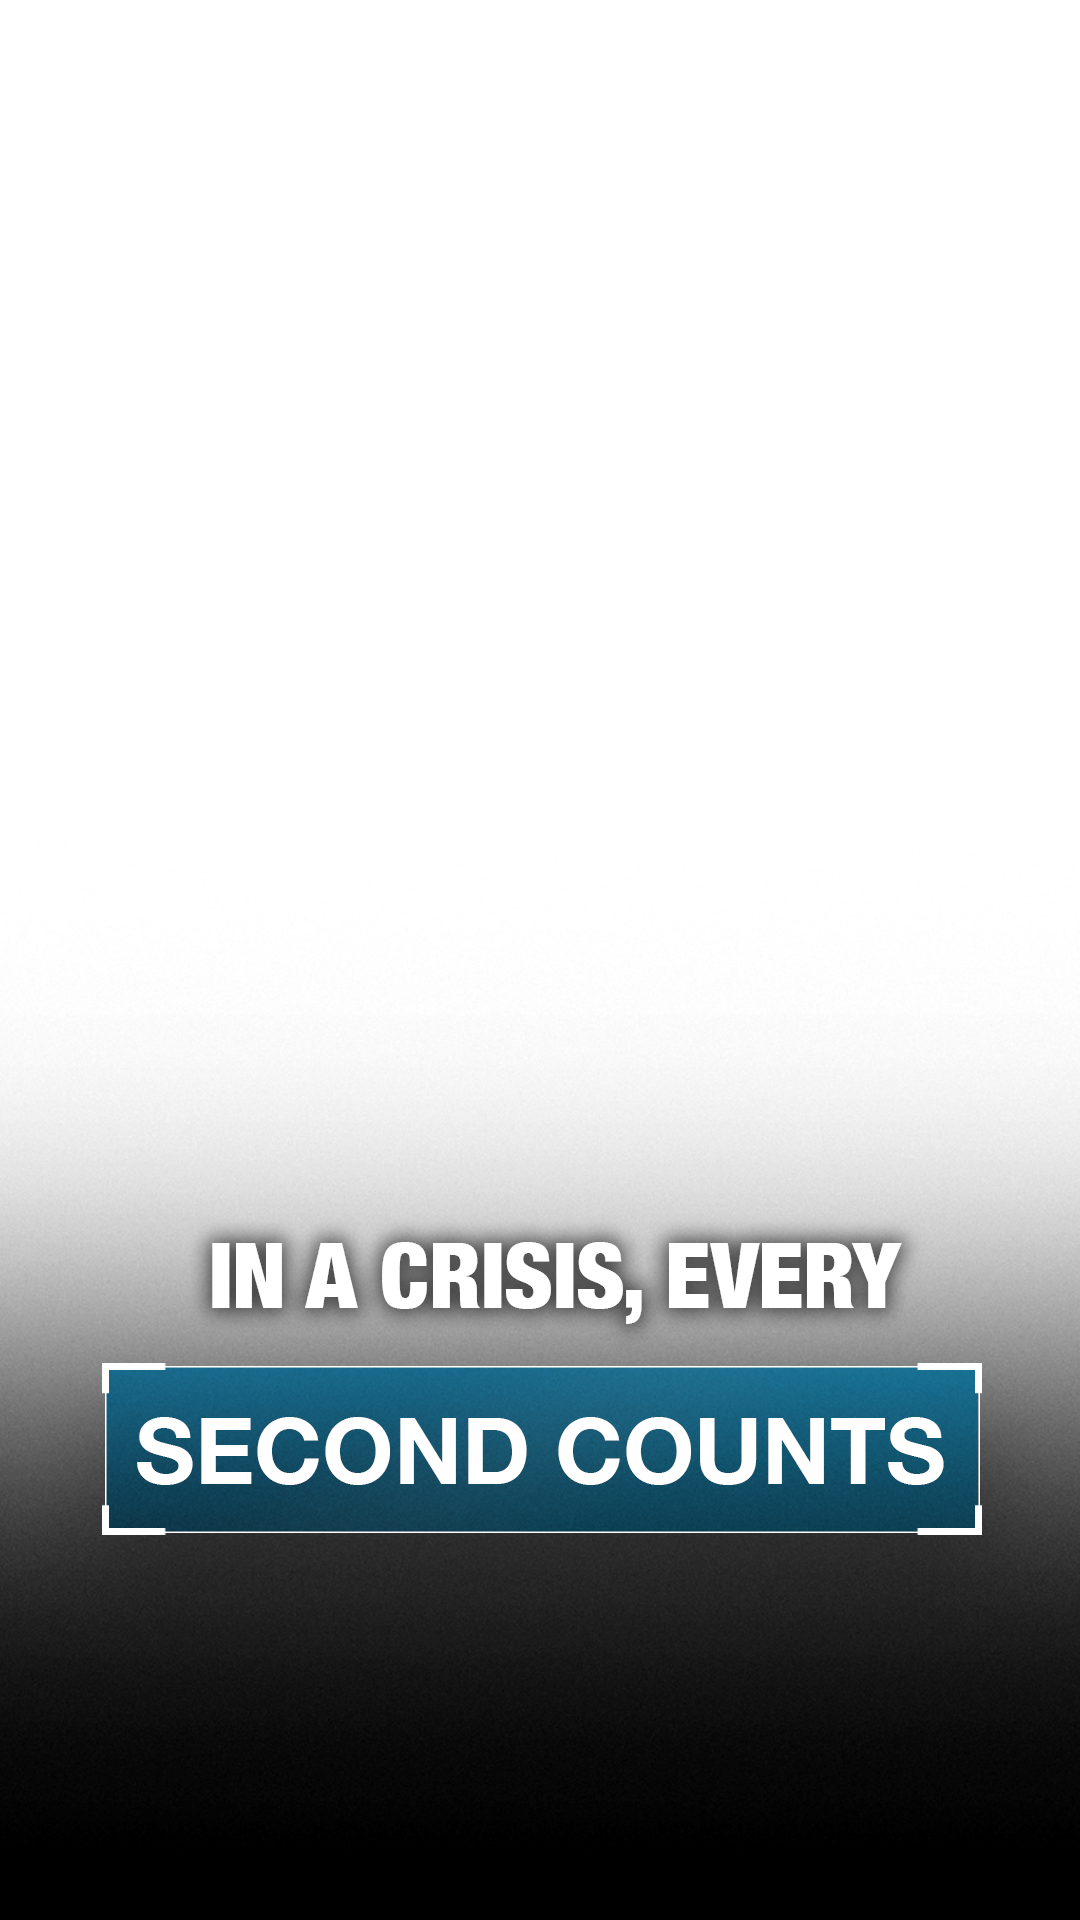
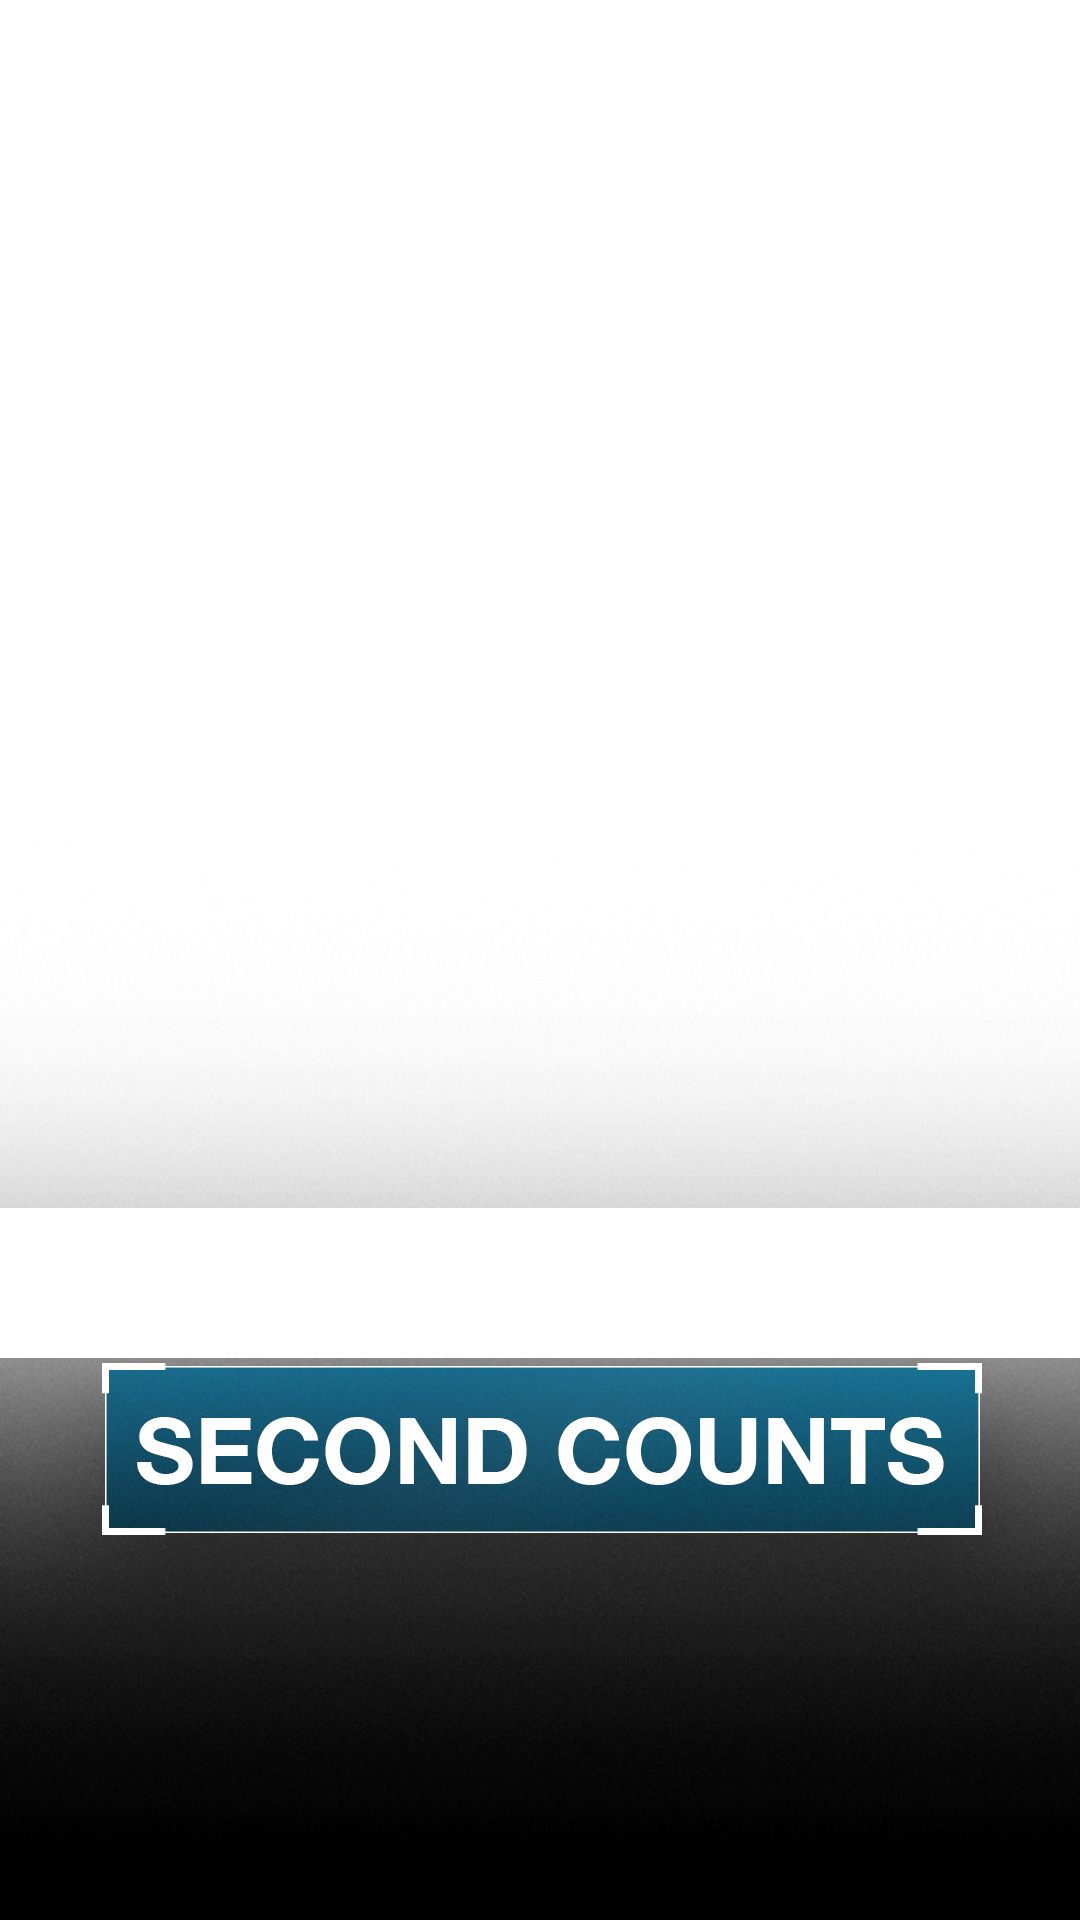
Remove Siyata top title background

Changed region(s): [[0.0, 0.625, 1.0, 0.7188]]

diff --git a/thumbnail_agent.py b/thumbnail_agent.py
@@ -150,7 +150,23 @@ CLIENTS = {
         "logo_area": "upper Siyata design area",
         "template_context": "fixed Siyata design layer with a black lower field and blue title box",
         "title_bands": [
-            {"x": 96, "y": 1215, "w": 888, "h": 142, "radius": 0, "fill": (0, 0, 0, 255), "text_fill": "#ffffff", "font_max": 78, "font_min": 32, "text_center_x": 540, "text_center_y": 1290},
+            {
+                "x": 96,
+                "y": 1215,
+                "w": 888,
+                "h": 142,
+                "radius": 0,
+                "fill": None,
+                "text_fill": "#ffffff",
+                "font_max": 78,
+                "font_min": 32,
+                "text_center_x": 540,
+                "text_center_y": 1290,
+                "stroke_width": 1,
+                "stroke_fill": (0, 0, 0, 210),
+                "shadow_offsets": [(3, 5)],
+                "shadow_fill": (0, 0, 0, 185),
+            },
             {"x": 106, "y": 1374, "w": 868, "h": 152, "radius": 0, "fill": (25, 111, 137, 255), "text_fill": "#ffffff", "font_max": 92, "font_min": 36, "text_center_x": 540, "text_center_y": 1455},
         ],
     },
@@ -528,7 +544,17 @@ def draw_centered_text(draw, box, text, font, fill):
     center_y = box.get("text_center_y", y + h / 2)
     tx = center_x - (right + left) / 2
     ty = center_y - (bottom + top) / 2
-    draw.text((tx, ty), text, font=font, fill=fill)
+    shadow_fill = box.get("shadow_fill", (0, 0, 0, 160))
+    for dx, dy in box.get("shadow_offsets", []):
+        draw.text((tx + dx, ty + dy), text, font=font, fill=shadow_fill)
+    draw.text(
+        (tx, ty),
+        text,
+        font=font,
+        fill=fill,
+        stroke_width=box.get("stroke_width", 0),
+        stroke_fill=box.get("stroke_fill", shadow_fill),
+    )
 
 
 def fit_cover(image, size):
@@ -550,11 +576,12 @@ def draw_title(canvas, title, config):
     draw = ImageDraw.Draw(canvas)
 
     for index, band in enumerate(config["title_bands"]):
-        draw.rounded_rectangle(
-            (band["x"], band["y"], band["x"] + band["w"], band["y"] + band["h"]),
-            radius=band["radius"],
-            fill=band["fill"],
-        )
+        if band.get("fill") is not None:
+            draw.rounded_rectangle(
+                (band["x"], band["y"], band["x"] + band["w"], band["y"] + band["h"]),
+                radius=band["radius"],
+                fill=band["fill"],
+            )
         text = title_lines[index] if index < len(title_lines) else ""
         if text:
             font = fit_font(